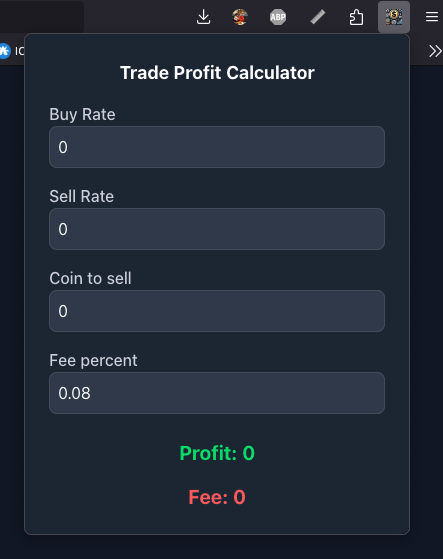
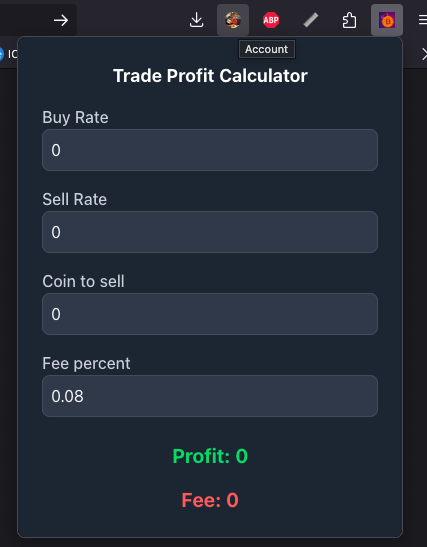
adds screenshot and fixes fee

diff --git a/src/App.tsx b/src/App.tsx
@@ -77,7 +77,9 @@ function App() {
           <div className="text-center text-xl font-bold text-red-400">
             <p>
               Fee:{" "}
-              {typeof fee === "number" && isNaN(fee) === false ? orderFee : 0}
+              {typeof orderFee === "number" && isNaN(orderFee) === false
+                ? orderFee
+                : 0}
             </p>
           </div>
         </div>

diff --git a/README.md b/README.md
@@ -1,1 +1,3 @@
+## Extension to quickly calculate profit made out of trades
+
 ![Calculator](screenshot.png)
